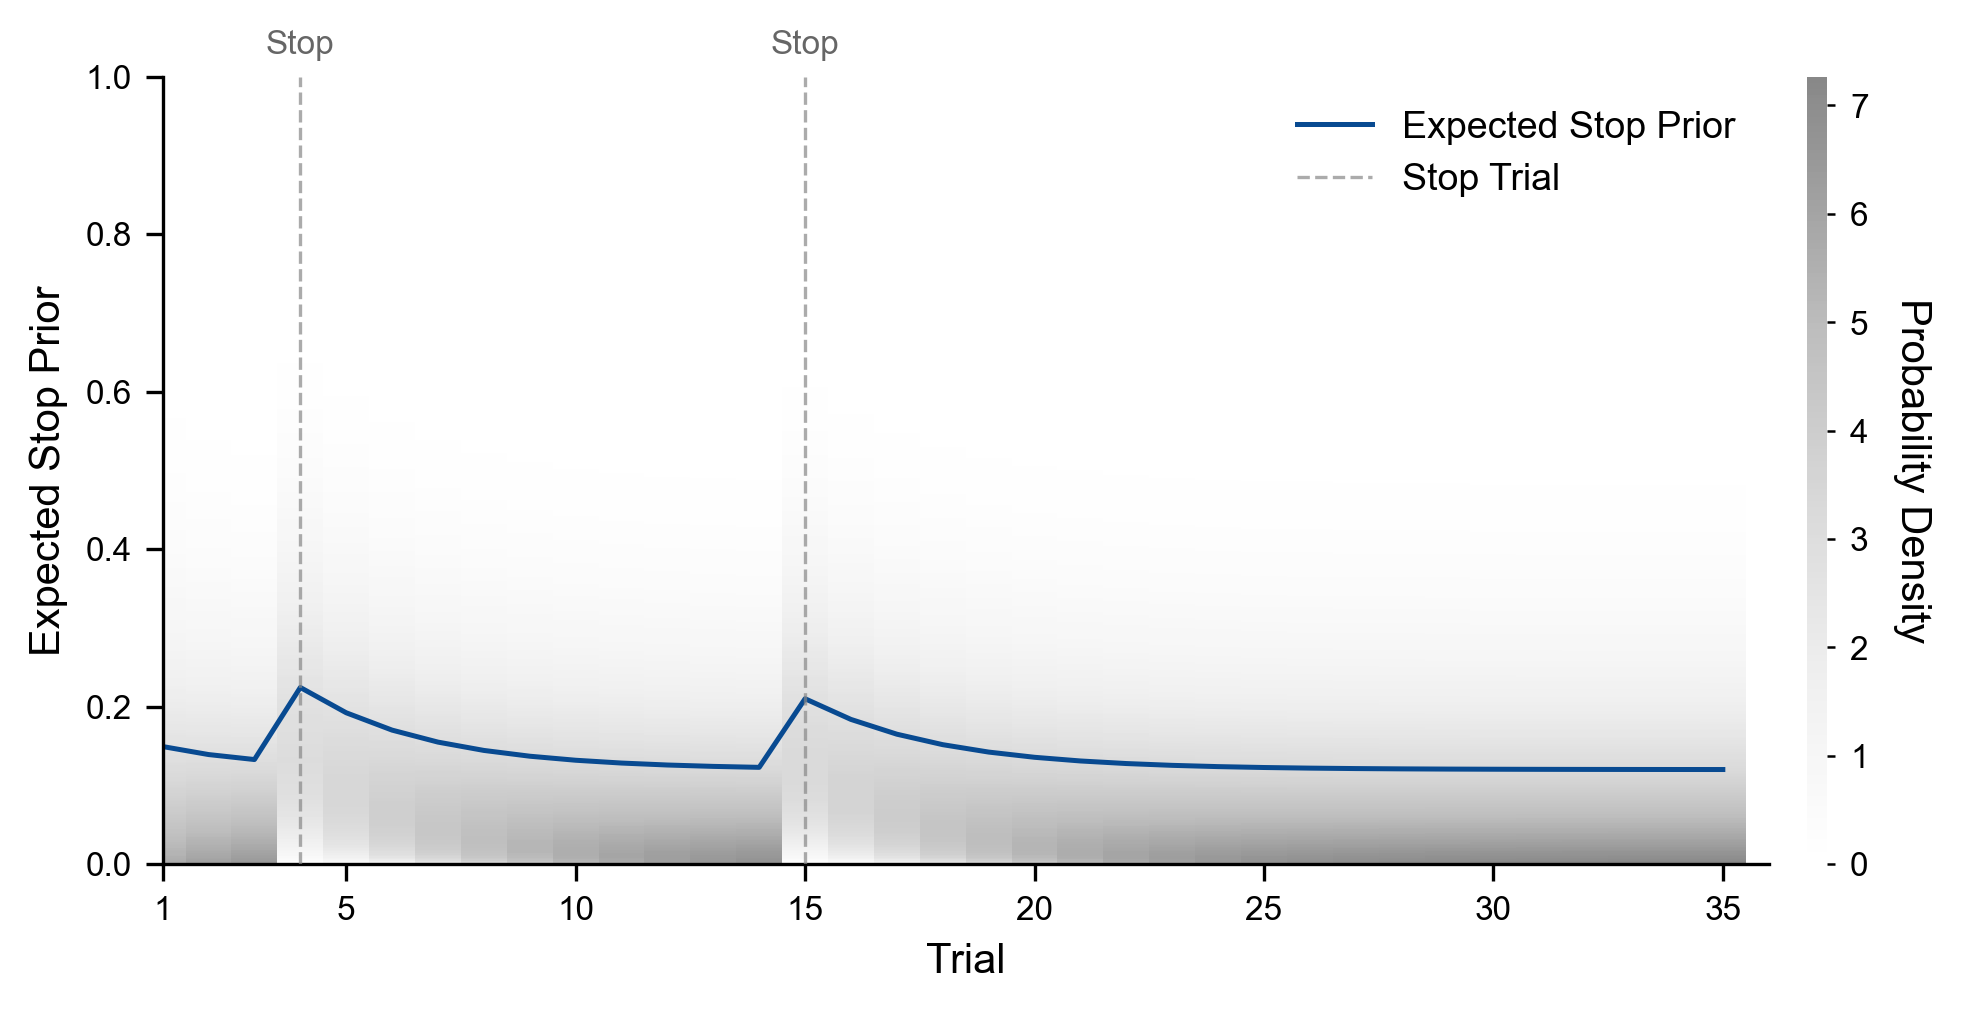
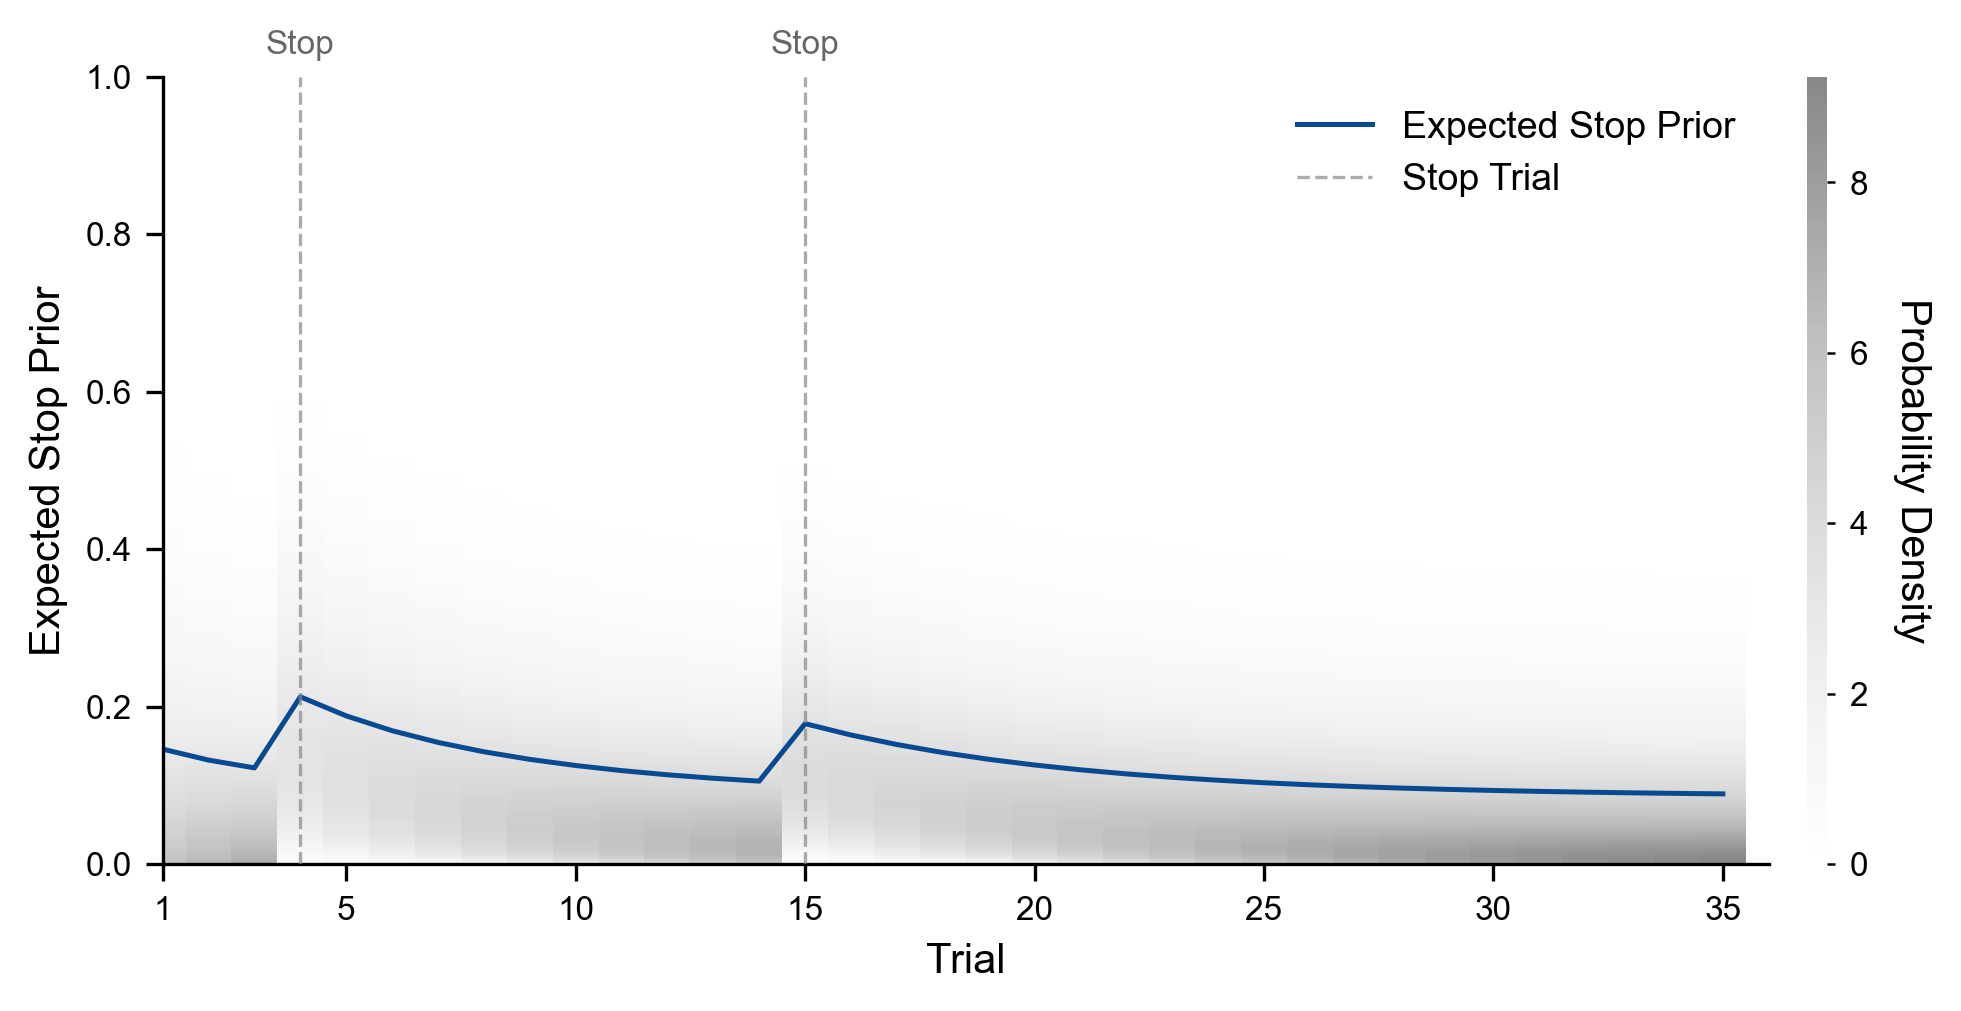
up

diff --git a/hpc/train_e2e_v7_gpu.py b/hpc/train_e2e_v7_gpu.py
@@ -88,13 +88,26 @@ except Exception:
     DF_MEANS, DF_STDS = None, None
 
 def sample_prior(n_samples: int) -> pd.DataFrame:
+    # 1. 对 HDBM 认知参数进行 Uniform 采样（全空间探索）
     samples = {k: np.random.uniform(low, high, n_samples) for k, (low, high) in HDBM_PARAM_RANGE.items()}
+    
+    # 2. 对 POMDP 底层参数进行 Empirical Informative Prior 采样（软固定）
     sampled_means = DF_MEANS.sample(n=n_samples, replace=True).reset_index(drop=True)
     for p in POMDP_PARAM_RANGE.keys():
+        # 在抽到的真实人类参数基础上，加上一点高斯噪声
         noise = np.random.normal(0, DF_STDS[p] * 0.5, n_samples) 
         val = sampled_means[p].values + noise
-        low, high = POMDP_PARAM_RANGE[p]
-        samples[p] = np.clip(val, low, high)
+        
+        # 提取我们在开头设置的上限，防止 MAF 网络归一化时越界爆错
+        _, high = POMDP_PARAM_RANGE[p] 
+        
+        if p.startswith('q_'):
+            # 【概率类参数】：限制在 0 和 1 之间（留 1e-4 安全边距防除零）
+            samples[p] = np.clip(val, 1e-4, 1.0 - 1e-4)
+        else:
+            # 【非概率参数】(cost_stop_error, inv_temp 等)：大于 0 即可
+            samples[p] = np.clip(val, 1e-4, high)
+            
     return pd.DataFrame(samples)
 
 def load_order_stats(csv_path: Path = ORDERS_CSV_PATH) -> Tuple[np.ndarray, np.ndarray]:
@@ -237,90 +250,119 @@ def evaluate_parameter_recovery(model, device, num_test=64):
     plt.close()
     print(f"Saved scatter plot matrix to '{plot_out_path}'.")
 
-# --- 6. MAIN TRAINING PIPELINE ---
+# # --- 6. MAIN TRAINING PIPELINE ---
+# def train_pipeline(n_samples=20000, epochs=500, batch_size=256, patience=50):
+#     device = torch.device("cuda" if torch.cuda.is_available() else "cpu")
+#     print(f"--- Deep Amortized Inference Initialization ---")
+#     print(f"Using device: {device.type.upper()}")
+    
+#     # dataset_file = BASE_DIR / f"e2e_dataset_{n_samples}_REAL_POMDP.pt"
+#     # if dataset_file.exists():
+#     #     print(f"\n[Fast Track] Loading {n_samples} Empirical Prior dataset...")
+#     #     dataset = torch.load(dataset_file, weights_only=False)
+#     # else:
+#     #     print(f"\n[ERROR] Dataset '{dataset_file}' not found! Run CPU generation first.")
+#     #     sys.exit(1)
+    
+#     dataset_file_1 = BASE_DIR / "e2e_dataset_10000_part1.pt"
+#     dataset_file_2 = BASE_DIR / "e2e_dataset_10000_part2.pt"
+    
+#     if dataset_file_1.exists() and dataset_file_2.exists():
+#         print(f"\n[Fast Track] Found two dataset parts. Loading and merging...")
+#         d1 = torch.load(dataset_file_1, weights_only=False)
+#         d2 = torch.load(dataset_file_2, weights_only=False)
+        
+#         X_all = torch.cat([d1.tensors[0], d2.tensors[0]], dim=0)
+#         Y_all = torch.cat([d1.tensors[1], d2.tensors[1]], dim=0)
+        
+#         dataset = TensorDataset(X_all, Y_all)
+#         print(f"Successfully merged! Total dataset size: {len(dataset)}")
+#     else:
+#         print(f"\n[ERROR] Dataset parts not found! Please run CPU generation scripts first.")
+#         sys.exit(1)
+    
+#     val_size = int(0.2 * len(dataset))
+#     train_dataset, val_dataset = random_split(dataset, [len(dataset) - val_size, val_size])
+#     train_loader = DataLoader(train_dataset, batch_size=batch_size, shuffle=True)
+#     val_loader = DataLoader(val_dataset, batch_size=batch_size, shuffle=False)
+    
+#     model = AmortizedInferenceNet(param_dim=len(FREE_PARAM)).to(device)
+#     optimizer = optim.Adam(model.parameters(), lr=1e-3, weight_decay=1e-5)
+#     scheduler = optim.lr_scheduler.ReduceLROnPlateau(optimizer, mode='min', factor=0.5, patience=15)
+    
+#     best_val_loss = float('inf')
+#     best_model_weights = copy.deepcopy(model.state_dict())
+#     epochs_no_improve = 0
+    
+#     print(f"\n--- Starting Deep Training Loop ---")
+#     for epoch in range(epochs):
+#         model.train()
+#         train_loss = 0.0
+#         for batch_x, batch_y in train_loader:
+#             batch_x, batch_y = batch_x.to(device), batch_y.to(device)
+#             optimizer.zero_grad()
+#             loss = -model(batch_x, true_params_scaled=batch_y).mean()
+#             loss.backward()
+#             torch.nn.utils.clip_grad_norm_(model.parameters(), max_norm=5.0)
+#             optimizer.step()
+#             train_loss += loss.item()
+            
+#         avg_train_loss, avg_val_loss = train_loss / len(train_loader), 0.0
+        
+#         model.eval()
+#         with torch.no_grad():
+#             for batch_x, batch_y in val_loader:
+#                 avg_val_loss += -model(batch_x.to(device), true_params_scaled=batch_y.to(device)).mean().item()
+#         avg_val_loss /= len(val_loader)
+        
+#         if (epoch+1) % 5 == 0 or epoch == 0:
+#             print(f"Epoch [{epoch+1:03d}/{epochs}] | LR: {optimizer.param_groups[0]['lr']:.6f} | Train NLL: {avg_train_loss:.4f} | Val NLL: {avg_val_loss:.4f}")
+        
+#         scheduler.step(avg_val_loss)
+#         if avg_val_loss < best_val_loss:
+#             best_val_loss = avg_val_loss
+#             best_model_weights = copy.deepcopy(model.state_dict())
+#             epochs_no_improve = 0
+#         else:
+#             epochs_no_improve += 1
+#             if epochs_no_improve >= patience:
+#                 print(f"\nEarly stopping at epoch {epoch+1}! Best Val Loss: {best_val_loss:.4f}")
+#                 break
+
+#     model.load_state_dict(best_model_weights)
+#     torch.save(model.state_dict(), BASE_DIR / "amortized_inference_net_DEEP_8PARAMS.pth")
+#     evaluate_parameter_recovery(model, device, num_test=64)
+
+# if __name__ == "__main__":
+#     train_pipeline(n_samples=20000, epochs=500, batch_size=256, patience=50)
+
+# --- 6. MAIN TRAINING PIPELINE (MODIFIED FOR PLOTTING ONLY) ---
 def train_pipeline(n_samples=20000, epochs=500, batch_size=256, patience=50):
     device = torch.device("cuda" if torch.cuda.is_available() else "cpu")
-    print(f"--- Deep Amortized Inference Initialization ---")
+    print(f"--- Fast Track Plotting Mode ---")
     print(f"Using device: {device.type.upper()}")
     
-    # dataset_file = BASE_DIR / f"e2e_dataset_{n_samples}_REAL_POMDP.pt"
-    # if dataset_file.exists():
-    #     print(f"\n[Fast Track] Loading {n_samples} Empirical Prior dataset...")
-    #     dataset = torch.load(dataset_file, weights_only=False)
-    # else:
-    #     print(f"\n[ERROR] Dataset '{dataset_file}' not found! Run CPU generation first.")
-    #     sys.exit(1)
-    
-    # 在 train_e2e_v7_gpu.py 的 train_pipeline 函数里：
-    dataset_file_1 = BASE_DIR / "e2e_dataset_10000_part1.pt"
-    dataset_file_2 = BASE_DIR / "e2e_dataset_10000_part2.pt"
-    
-    if dataset_file_1.exists() and dataset_file_2.exists():
-        print(f"\n[Fast Track] Found two dataset parts. Loading and merging...")
-        d1 = torch.load(dataset_file_1, weights_only=False)
-        d2 = torch.load(dataset_file_2, weights_only=False)
-        
-        # 将张量在第 0 维度（样本维度）直接拼接
-        X_all = torch.cat([d1.tensors[0], d2.tensors[0]], dim=0)
-        Y_all = torch.cat([d1.tensors[1], d2.tensors[1]], dim=0)
-        
-        dataset = TensorDataset(X_all, Y_all)
-        print(f"Successfully merged! Total dataset size: {len(dataset)}")
-    else:
-        print(f"\n[ERROR] Dataset parts not found! Please run CPU generation scripts first.")
+    # 1. 确认能读到 CSV，防止再次报错
+    if DF_MEANS is None:
+        print("\n[ERROR] 依然没有读到 params_posteriors.csv！请确保它和本脚本在同一个文件夹！")
         sys.exit(1)
-    
-    val_size = int(0.2 * len(dataset))
-    train_dataset, val_dataset = random_split(dataset, [len(dataset) - val_size, val_size])
-    train_loader = DataLoader(train_dataset, batch_size=batch_size, shuffle=True)
-    val_loader = DataLoader(val_dataset, batch_size=batch_size, shuffle=False)
-    
+        
+    # 2. 初始化网络结构
+    print(f"Initializing Amortized Inference Network...")
     model = AmortizedInferenceNet(param_dim=len(FREE_PARAM)).to(device)
-    optimizer = optim.Adam(model.parameters(), lr=1e-3, weight_decay=1e-5)
-    scheduler = optim.lr_scheduler.ReduceLROnPlateau(optimizer, mode='min', factor=0.5, patience=15)
     
-    best_val_loss = float('inf')
-    best_model_weights = copy.deepcopy(model.state_dict())
-    epochs_no_improve = 0
-    
-    print(f"\n--- Starting Deep Training Loop ---")
-    for epoch in range(epochs):
-        model.train()
-        train_loss = 0.0
-        for batch_x, batch_y in train_loader:
-            batch_x, batch_y = batch_x.to(device), batch_y.to(device)
-            optimizer.zero_grad()
-            loss = -model(batch_x, true_params_scaled=batch_y).mean()
-            loss.backward()
-            torch.nn.utils.clip_grad_norm_(model.parameters(), max_norm=5.0)
-            optimizer.step()
-            train_loss += loss.item()
-            
-        avg_train_loss, avg_val_loss = train_loss / len(train_loader), 0.0
+    # 3. 直接加载刚才训练好的神仙权重
+    model_path = BASE_DIR / "amortized_inference_net_DEEP_8PARAMS.pth"
+    if model_path.exists():
+        print(f"Loading trained weights from {model_path}...")
+        model.load_state_dict(torch.load(model_path, map_location=device))
+    else:
+        print(f"[ERROR] 找不到模型权重文件 {model_path}！")
+        sys.exit(1)
         
-        model.eval()
-        with torch.no_grad():
-            for batch_x, batch_y in val_loader:
-                avg_val_loss += -model(batch_x.to(device), true_params_scaled=batch_y.to(device)).mean().item()
-        avg_val_loss /= len(val_loader)
-        
-        if (epoch+1) % 5 == 0 or epoch == 0:
-            print(f"Epoch [{epoch+1:03d}/{epochs}] | LR: {optimizer.param_groups[0]['lr']:.6f} | Train NLL: {avg_train_loss:.4f} | Val NLL: {avg_val_loss:.4f}")
-        
-        scheduler.step(avg_val_loss)
-        if avg_val_loss < best_val_loss:
-            best_val_loss = avg_val_loss
-            best_model_weights = copy.deepcopy(model.state_dict())
-            epochs_no_improve = 0
-        else:
-            epochs_no_improve += 1
-            if epochs_no_improve >= patience:
-                print(f"\nEarly stopping at epoch {epoch+1}! Best Val Loss: {best_val_loss:.4f}")
-                break
-
-    model.load_state_dict(best_model_weights)
-    torch.save(model.state_dict(), BASE_DIR / "amortized_inference_net_DEEP_8PARAMS.pth")
+    # 4. 直接进入画图评估阶段！
     evaluate_parameter_recovery(model, device, num_test=64)
 
 if __name__ == "__main__":
-    train_pipeline(n_samples=20000, epochs=500, batch_size=256, patience=50)
+    # 直接调用画图，不需要给 epochs 等参数了
+    train_pipeline()

diff --git a/utils/plot_learning_v2.py b/utils/plot_learning_v2.py
@@ -36,7 +36,7 @@ def main():
     # seq = [int(char) for char in seq]
     
     # Initialize model
-    model = HDBM(alpha_go=0.7, alpha_stop=0.8, k_go=1.0, a0=5.0, b0=1.0)
+    model = HDBM(alpha_go=0.85, alpha_stop=0.85, k_go=1, a0=5.0, b0=1.0)
     
     # Track the (a, b) parameters
     a, b = model.a0, model.b0
